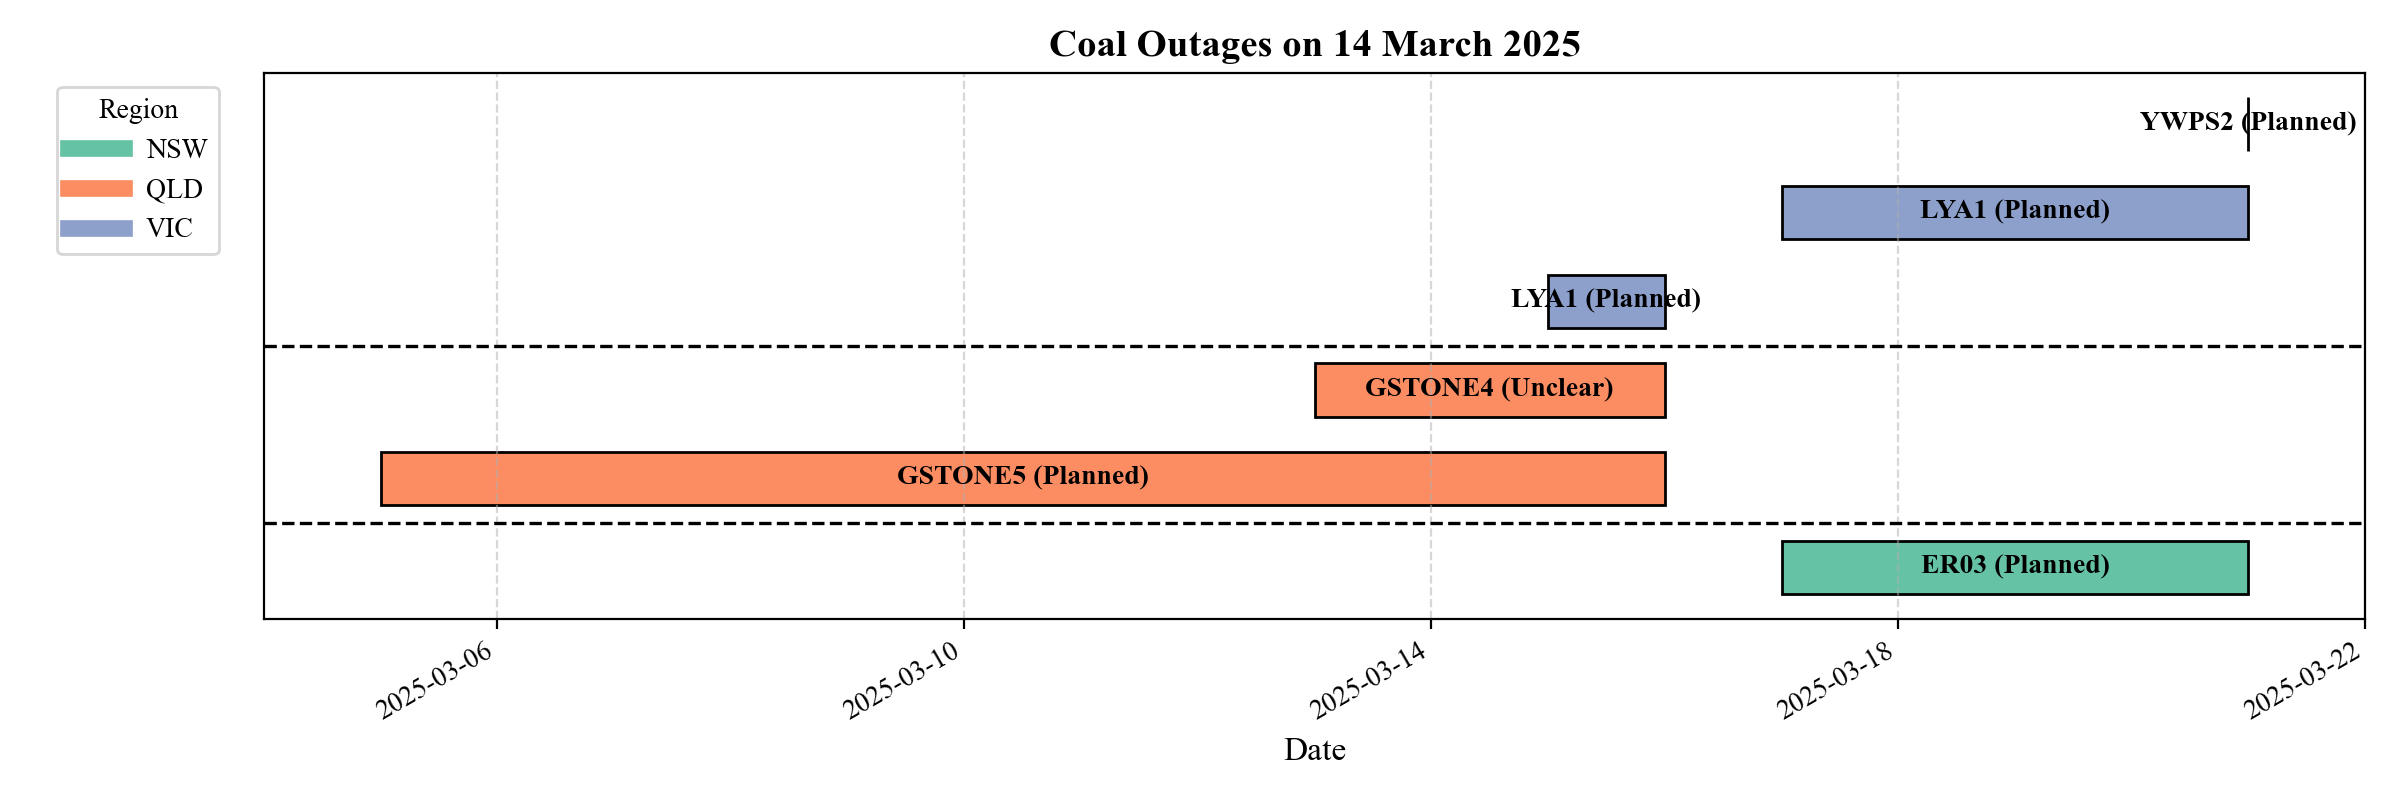
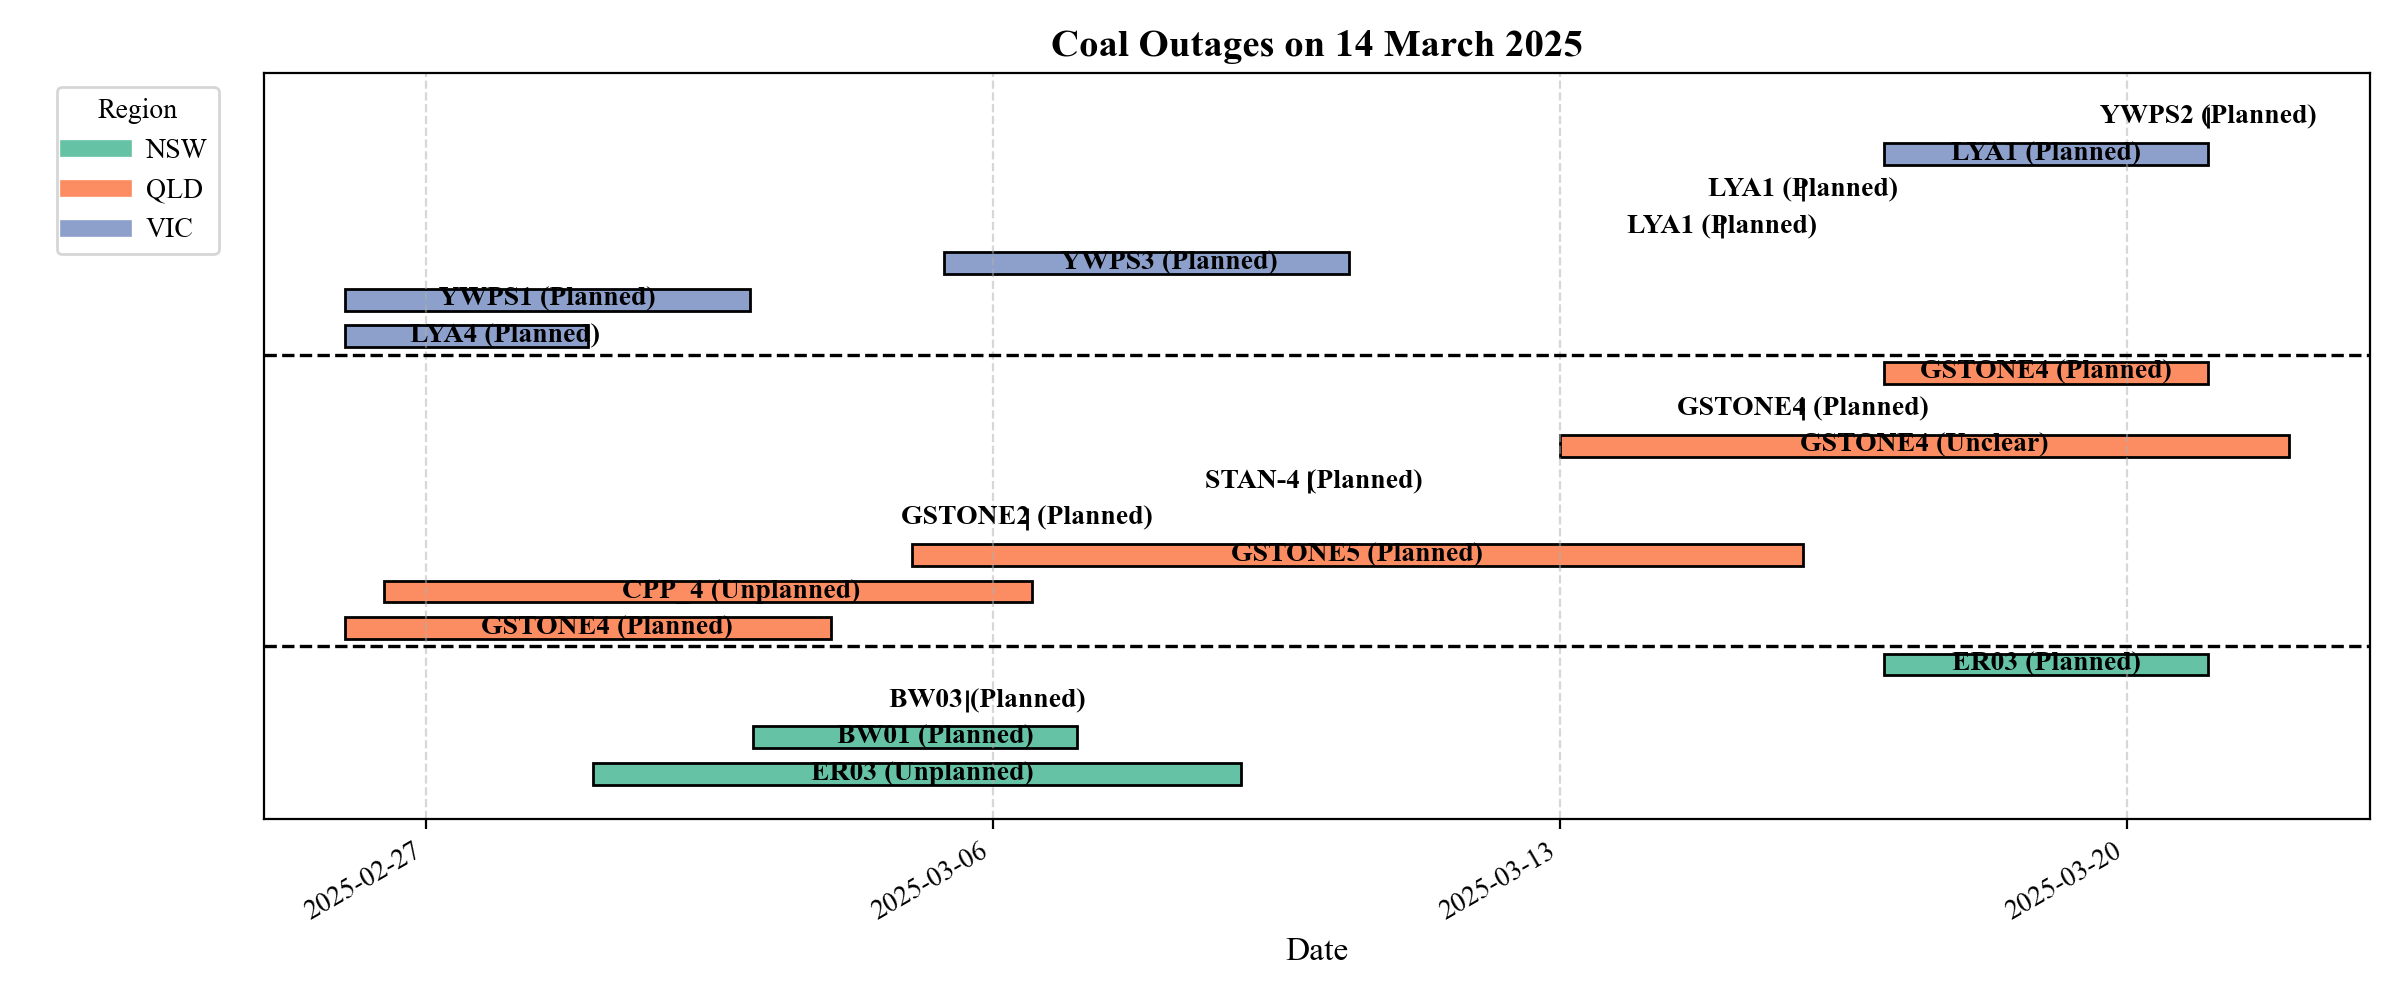
completed version 1 of outage visuals

diff --git a/Daily Data/scripts/python/outage_scripts.py b/Daily Data/scripts/python/outage_scripts.py
@@ -28,7 +28,7 @@ def get_coal_availability(duids, start_date):
             # prepare arguments
             duid_list = "', '".join(duids)
             end_date = start_date + pd.DateOffset(days=6)
-                              
+  
             # load query
             with open(os.path.join(scriptp,"sql/mtpasa_availability.sql"), "r") as file:
             #with open(os.path.abspath(os.path.join(os.path.dirname( __file__ ), '..', 'sql','mtpasa_availability.sql')), "r") as file: #
@@ -208,3 +208,95 @@ def get_geninfo(duids):
     geninfo["name"] = geninfo.index.map(lambda duid: f"{geninfo.at[duid, 'name'].replace(' Power Station', '').replace(' Power Plant', '')} {duid[-1]}")
     
     return geninfo
+
+
+def get_historic_outages(today, lookback=31):
+    '''
+    Collect past month of outage data
+    Determine on T-14 days 
+    '''
+    try:
+        # establish connection
+        with pymssql.connect(
+            server="databases-plus-gr.public.f68d1dee025f.database.windows.net",
+            port="3342",
+            user="dept-energy",
+            password="dirty-prejudge-MUTINEER-lyle-castrate",
+            database="Historical-MMS"
+        ) as connection:
+            
+            print(f"Querying database to collect past {lookback} days of outages ...", end="\r")    
+            # create cursor
+            cursor = connection.cursor()
+            
+            # prepare arguments
+            end_date = pd.to_datetime(today) - pd.DateOffset(days=1)
+            start_date = end_date - pd.DateOffset(days=lookback)
+                              
+            # load query
+            with open(os.path.join(scriptp,"sql/outage_master_with_unit_status.sql"), "r") as file:
+            #with open(os.path.abspath(os.path.join(os.path.dirname( __file__ ), '..', 'sql','mtpasa_availability.sql')), "r") as file: #
+                sql_query = file.read()
+
+            # add arguments to query
+            sql_query = sql_query.format(
+                start_date=start_date.date(),
+                end_date=end_date.date()
+            ) 
+            
+            # execute query
+            cursor.execute(sql_query)
+
+            # return results in dataframe
+            data = cursor.fetchall() # Data only, without column names
+            columns = [row[0] for row in cursor.description] # .description gives column names
+            df = pd.DataFrame(
+                data=data,
+                columns=columns
+            )
+            print(f"Querying database to collect past {lookback} days of outages ... complete.")
+
+            df.to_csv("./data/historic_outages.csv",index=False)
+
+            # df = pd.read_csv("./data/historic_outages.csv")
+
+            ## for diagnosis
+            df['current_status'] = 'RETURNED'
+
+            df['region'] = df['REGIONID'].str.replace("1","")
+
+            unit_state_dict = {
+                    'OUTAGEPLANBASIC' : 'Planned',
+                    'OUTAGEUNPLANFORCED' : 'Unplanned',
+                    'OUTAGEUNPLANMAINT' : 'Unplanned',
+                    'DERATINGUNPLANFORCED' : 'Unplanned',
+                    'MOTHBALLED' : 'Unclear',
+                    'INACTIVERESERVE' : 'Unclear',
+                    'RETIRED' : 'Retired',
+                    'OUTAGEPLANEXTEND' : 'Planned',
+                    'DERATINGUNPLANMAINT' : 'Unplanned',
+                    'DERATINGPLANBASIC' : 'Planned',
+                    'DERATINGPLANEXTEND' : 'Planned',
+                    'NODERATINGS' : 'Planned'
+                }
+
+            # this is an estimate only (visual so it matters less)
+            df['outage_type'] = df['PASAUNITSTATE'].map(unit_state_dict)
+
+            df = df[['DUID','region','OutageFrom','OutageTo','outage_type']]
+
+            df.columns = ['duid','region','outage_date','expected_return','outage_type']
+
+            df['outage_date'] = pd.to_datetime(df['outage_date'])
+            df['expected_return'] = pd.to_datetime(df['expected_return'])
+
+            df = df[df['expected_return']>(pd.to_datetime(today)-pd.DateOffset(days=lookback))]
+            df = df[df['expected_return']<pd.to_datetime(today)]
+            
+            return df.copy()
+
+    except pymssql.Error as e:
+        print(f"Database error occurred: {e}")
+        return None
+
+

diff --git a/Daily Data/scripts/python/coal_outages.py b/Daily Data/scripts/python/coal_outages.py
@@ -13,7 +13,8 @@ from outage_scripts import (
     get_coal_availability,
     diagnose_outage,
     get_outage_data,
-    get_geninfo
+    get_geninfo,
+    get_historic_outages
 )
 
 def get_coal_outages():
@@ -52,6 +53,11 @@ def get_coal_outages():
     outage_data = get_outage_data(
         coal_duids,
         today
+    )
+
+    historic_outages = get_historic_outages(
+        today,
+        lookback=15 # can change duration looking backwards
     )
 
     mtpasa.to_csv(os.path.join(data_path,"mtpasa_example.csv"))
@@ -337,7 +343,7 @@ def get_coal_outages():
     outcp['outage_date'] = pd.to_datetime(outcp['outage_date'])
     outcp['expected_return'] = pd.to_datetime(outcp['expected_return'])
 
-    all_outages = pd.concat([outcp,future_planned_outages],axis=0).reset_index(drop=True)
+    all_outages = pd.concat([outcp,future_planned_outages,historic_outages],axis=0).reset_index(drop=True)
     
     return all_outages #all_outages.copy()
 
@@ -430,7 +436,7 @@ def visualise_outages(df):
 
     # Labels and title
     plt.xlabel("Date", fontsize=12)
-    plt.title(f"Coal Outages on {today:%d %B %Y}", fontsize=14, fontweight="bold")
+    plt.title(f"Coal Outages (Updated on {today:%d %B %Y})", fontsize=14, fontweight="bold")
 
     # Legend
     handles = [plt.Line2D([0], [0], color=color, lw=6) for color in region_colors.values()]
